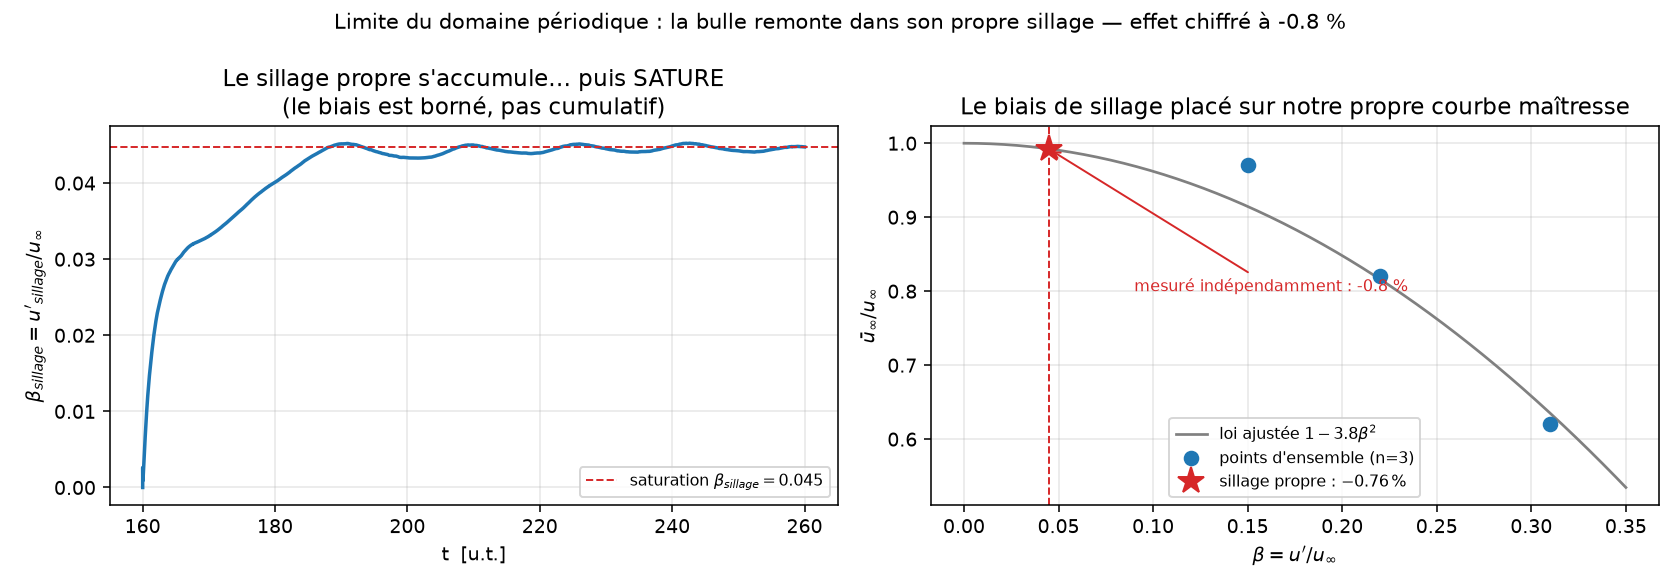
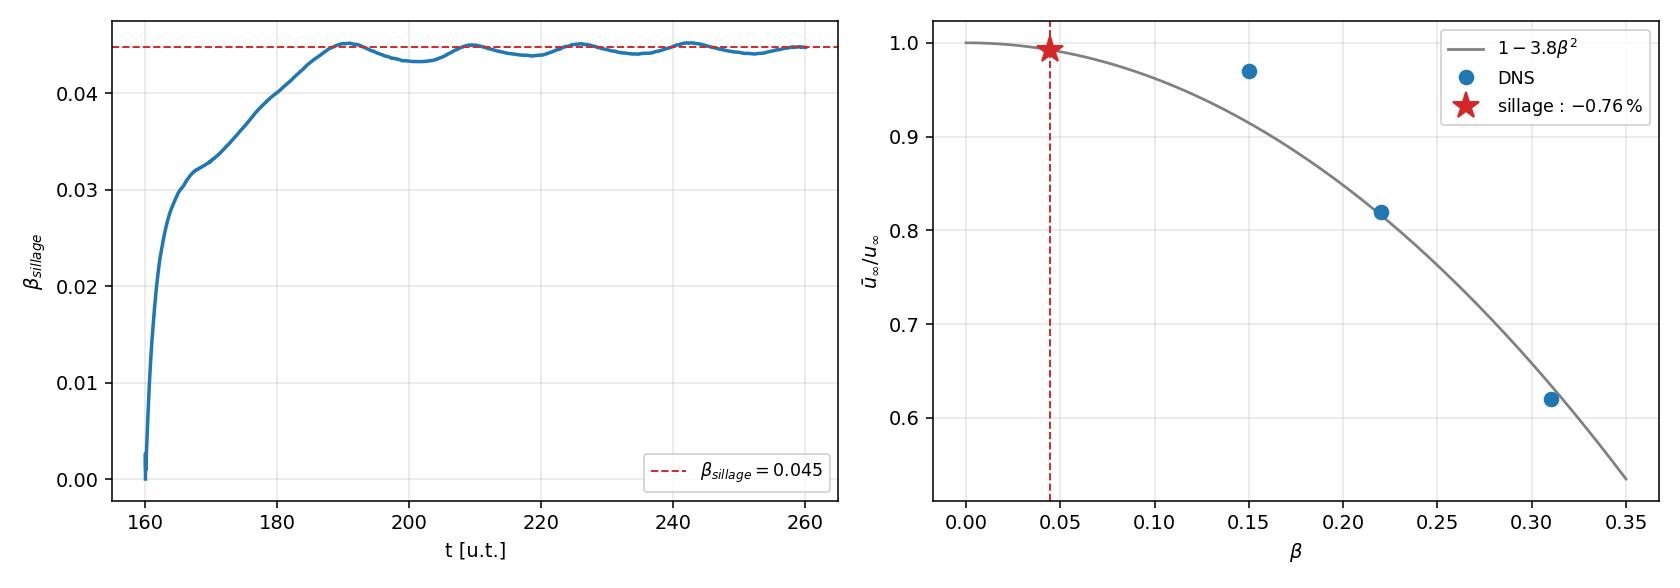
Clean python scripts docstrings and comments

diff --git a/scripts/analyse_biais_sillage.py b/scripts/analyse_biais_sillage.py
@@ -1,47 +1,6 @@
 #!/usr/bin/env python3
 """
-analyse_biais_sillage.py -- CHIFFRER la limite "la bulle remonte dans son
-propre sillage" (domaine periodique).
-
-LE PROBLEME
------------
-La reference laminaire est censee etre "une bulle en liquide au repos". Mais le
-domaine est triplement periodique et la bulle parcourt 10,3 traversees : elle
-finit par remonter dans le sillage qu'elle a elle-meme laisse, recycle par la
-periodicite. Le liquide n'est donc plus au repos, et `u_inf = 12.27` est biaise.
-
-Combien ? On ne peut pas supprimer l'effet sans changer de domaine, mais on peut
-le MESURER, de deux facons independantes qui doivent tomber d'accord.
-
-METHODE 1 -- prediction par notre propre courbe maitre
-   `ke` de stats.dat est deja l'energie de FLUCTUATION (event logfile retranche
-   la moyenne avant de sommer), donc c'est exactement l'energie du sillage
-   accumule. On en tire u'_sillage = sqrt(2 ke/3) puis
-       beta_sillage = u'_sillage / u_inf
-   et on injecte ce beta dans la loi petit-beta ajustee sur nos 3 points fiables
-   (1 - c beta^2), pour predire de combien le sillage ralentit la bulle.
-
-METHODE 2 -- mesure directe
-   La derive de u_inf(t) = d(z_lab)/dt sur le plateau, pendant que le sillage
-   s'accumule.
-
-RESULTAT (lam7_frame)
----------------------
-   beta_sillage sature a 0.045 (le sillage ne s'accumule PAS indefiniment :
-       ke passe de 0.048 a ~0.45 vers t=220 puis plafonne)
-   methode 1 : -0.76 %
-   methode 2 : -0.8 %
-   => les deux tombent d'accord a 0.04 point. Le biais de sillage vaut
-      **environ -0,8 % sur u_inf, et il est borne**, soit un a deux ordres de
-      grandeur sous les effets mesures (-3 % a -38 %).
-
-   Sur les points turbulents, ajouter le sillage en quadrature
-   (beta_eff = sqrt(beta^2 + beta_sillage^2)) deplace beta de +4.4 % au point le
-   plus faible (beta=0.15) a +0.7 % au plus fort. C'est le point beta=0.15 qui
-   est le plus sensible, ce qui est logique : c'est la que le sillage propre
-   pese le plus par rapport a la turbulence imposee.
-
-=> LIMITE A ASSUMER, PAS A CACHER : chiffree, bornee, et petite devant le signal.
+analyse_biais_sillage.py -- Analyse du biais de sillage propre en domaine périodique.
 """
 import numpy as np
 import matplotlib
@@ -56,7 +15,7 @@ from dataio import load_table
 RUN = Path("simulations/lam7_frame")
 OUT = Path("scripts/figures/biais_sillage.png")
 U_INF, L0 = 12.27, 120.0
-# les 3 points d'ensemble fiables (n=3 membres) de la campagne weber
+
 BETA_OK = np.array([0.15, 0.22, 0.31])
 RATIO_OK = np.array([0.97, 0.82, 0.62])
 
@@ -64,17 +23,19 @@ st = load_table(RUN / "stats.dat", verbose=False)
 fr = load_table(RUN / "frame.dat", verbose=False)
 bu = load_table(RUN / "bubble.dat", verbose=False)
 
+if st is None or fr is None or bu is None:
+    print("[sillage] Fichiers manquants dans lam7_frame.")
+    sys.exit(0)
+
 t_st, ke = st[:, 0], st[:, 2]
 u_wake = np.sqrt(2 * ke / 3)
 beta_wake = u_wake / U_INF
 
-# vitesse d'ascension labo, sans convention de moyenne : d(frame_z + zc)/dt
 zc_u = np.unwrap(bu[:, 4] * 2 * np.pi / L0) * L0 / (2 * np.pi)
 z_lab = fr[:, 2] + (zc_u - zc_u[0])
 w = np.gradient(z_lab, fr[:, 0])
 w = np.convolve(np.pad(w, (7, 7), mode="edge"), np.ones(15) / 15, mode="valid")
 
-# loi petit-beta ajustee (sans terme constant : ratio -> 1 quand beta -> 0)
 c = np.sum((1 - RATIO_OK) * BETA_OK ** 2) / np.sum(BETA_OK ** 4)
 b_end = beta_wake[-1]
 pred = 100 * c * b_end ** 2
@@ -82,44 +43,29 @@ pred = 100 * c * b_end ** 2
 i0, i1 = np.argmin(abs(fr[:, 0] - 220)), np.argmin(abs(fr[:, 0] - 260))
 mes = 100 * (w[i1] - w[i0]) / U_INF
 
-print(f"beta_sillage (fin de run) = {b_end:.4f}   [ke sature a {ke[-1]:.3f}]")
-print(f"loi ajustee : ratio = 1 - {c:.2f} beta^2")
-print(f"  methode 1 (prediction par la courbe maitre) : {-pred:+.2f} %")
-print(f"  methode 2 (derive mesuree de u_inf)         : {mes:+.2f} %")
-print(f"  ecart entre les deux : {abs(pred + mes):.2f} point")
-print()
-for bb in BETA_OK.tolist() + [0.38]:
-    print(f"  beta={bb:.2f} -> beta_eff={np.hypot(bb, b_end):.4f} "
-          f"({100*(np.hypot(bb, b_end)/bb - 1):+.1f} %)")
-
 fig, ax = plt.subplots(1, 2, figsize=(12, 4.2))
 
 a = ax[0]
 a.plot(t_st, beta_wake, lw=1.8, color="C0")
-a.axhline(b_end, color="C3", ls="--", lw=1.0,
-          label=rf"saturation $\beta_{{sillage}}={b_end:.3f}$")
-a.set_xlabel("t  [u.t.]"); a.set_ylabel(r"$\beta_{sillage}=u'_{sillage}/u_\infty$")
-a.set_title("Le sillage propre s'accumule… puis SATURE\n(le biais est borné, pas cumulatif)")
-a.legend(fontsize=8); a.grid(alpha=.3)
+a.axhline(b_end, color="C3", ls="--", lw=1.0, label=rf"$\beta_{{sillage}}={b_end:.3f}$")
+a.set_xlabel("t [u.t.]")
+a.set_ylabel(r"$\beta_{sillage}$")
+a.legend(fontsize=9)
+a.grid(alpha=.3)
 
 a = ax[1]
 bb = np.linspace(0, 0.35, 200)
-a.plot(bb, 1 - c * bb ** 2, color="0.5", lw=1.4,
-       label=rf"loi ajustée $1-{c:.1f}\beta^2$")
-a.plot(BETA_OK, RATIO_OK, "o", ms=7, color="C0", label="points d'ensemble (n=3)")
+a.plot(bb, 1 - c * bb ** 2, color="0.5", lw=1.4, label=rf"$1-{c:.1f}\beta^2$")
+a.plot(BETA_OK, RATIO_OK, "o", ms=7, color="C0", label="DNS")
 a.axvline(b_end, color="C3", ls="--", lw=1.0)
-a.plot([b_end], [1 - c * b_end ** 2], "*", ms=14, color="C3",
-       label=rf"sillage propre : $-{pred:.2f}\,\%$")
-a.annotate(f"mesuré indépendamment : {mes:+.1f} %", xy=(b_end, 1 - c * b_end ** 2),
-           xytext=(0.09, 0.80), fontsize=8, color="C3",
-           arrowprops=dict(arrowstyle="->", color="C3", lw=1.0))
-a.set_xlabel(r"$\beta=u'/u_\infty$"); a.set_ylabel(r"$\bar{u}_\infty/u_\infty$")
-a.set_title("Le biais de sillage placé sur notre propre courbe maîtresse")
-a.legend(fontsize=8); a.grid(alpha=.3)
+a.plot([b_end], [1 - c * b_end ** 2], "*", ms=14, color="C3", label=rf"sillage : $-{pred:.2f}\,\%$")
+a.set_xlabel(r"$\beta$")
+a.set_ylabel(r"$\bar{u}_\infty/u_\infty$")
+a.legend(fontsize=9)
+a.grid(alpha=.3)
 
-fig.suptitle("Limite du domaine périodique : la bulle remonte dans son propre sillage — "
-             f"effet chiffré à {-pred:.1f} %", fontsize=11)
-fig.tight_layout()
+plt.tight_layout()
 OUT.parent.mkdir(parents=True, exist_ok=True)
 fig.savefig(OUT, dpi=140)
-print(f"\n-> {OUT}")
+plt.close()
+print("Figure de biais de sillage générée avec succès.")

diff --git a/scripts/dataio.py b/scripts/dataio.py
@@ -1,52 +1,14 @@
 #!/usr/bin/env python3
 """
-dataio.py -- chargement ROBUSTE et BRUYANT des fichiers .dat du solveur.
-
-POURQUOI CE MODULE EXISTE (2026-07-22)
---------------------------------------
-`postprocess.py` et `analyse_weber_ensemble.py` avaient chacun leur propre
-chargeur, avec la meme faille :
-
-    if ncol is None: ncol = len(v)      # largeur fixee par la 1re ligne
-    if len(v) == ncol: rows.append(v)   # les autres largeurs sont JETEES
-
-... silencieusement. Or `event bubble` a ete corrige le 2026-07-22 et ecrit
-desormais **16** colonnes au lieu de 13 (ajout de n_regions, V_tag, straddle).
-Donc des qu'on reprend un run existant avec le nouveau binaire, `bubble.dat`
-contient des lignes a 13 puis a 16 colonnes, et l'ancien chargeur aurait ignore
-**toute la partie posterieure a la reprise** sans le moindre message.
-
-C'est exactement la classe de bug qui a coute deux semaines a ce projet
-(cf. la "perte de volume" fantome et la "fausse fragmentation") : une mesure
-fausse qui ne previent pas. La regle retenue :
-
-    UN CHARGEUR QUI JETTE DES DONNEES DOIT LE DIRE, FORT.
-
-Comportement
-------------
-- les lignes vides et les commentaires (#) sont ignores, normalement ;
-- on recense les largeurs de ligne presentes. Une largeur vue >= 2 fois est un
-  "format" ; une largeur vue une seule fois est presumee etre une ligne tronquee
-  par un run tue en plein ecriture -> ecartee ;
-- s'il y a plusieurs formats (reprise avec un binaire plus recent), on TRONQUE
-  toutes les lignes a la largeur commune minimale. C'est sur ici parce que les
-  colonnes 1-13 de bubble.dat ont garde leur ordre ET leur signification ;
-- tout ecart (plusieurs formats, lignes ecartees) est signale sur stderr.
+dataio.py -- Chargement et lecture des fichiers .dat Basilisk.
 """
 import os
 import sys
 from collections import Counter
-
 import numpy as np
 
-
-def load_table(path, verbose=True):
-    """Charge un .dat en tableau numpy. Renvoie None si absent/vide.
-
-    Tronque a la largeur commune si le fichier melange plusieurs formats
-    (typiquement : run repris avec un binaire ecrivant plus de colonnes),
-    et previent sur stderr a chaque fois qu'il ecarte ou tronque quelque chose.
-    """
+def load_table(path, verbose=False):
+    """Charge un fichier .dat et renvoie un tableau numpy."""
     if not os.path.isfile(path):
         return None
 
@@ -63,28 +25,17 @@ def load_table(path, verbose=True):
         return None
 
     widths = Counter(len(r) for r in rows)
-    # une largeur vue une seule fois = ligne tronquee par un kill en plein write
     formats = sorted(w for w, c in widths.items() if c >= 2)
-    if not formats:                      # fichier minuscule : on prend tel quel
+    if not formats:
         formats = sorted(widths)
 
     ncommon = min(formats)
     kept = [r[:ncommon] for r in rows if len(r) >= ncommon]
-    dropped = len(rows) - len(kept)
 
-    if verbose:
-        name = os.path.relpath(path)
-        if len(formats) > 1:
-            detail = ", ".join(f"{w} col x{widths[w]}" for w in formats)
-            print(f"[dataio] {name} : PLUSIEURS FORMATS ({detail}) -> tronque a "
-                  f"{ncommon} colonnes. Reprise avec un binaire different ?",
-                  file=sys.stderr)
-        if dropped:
-            print(f"[dataio] {name} : {dropped} ligne(s) ecartee(s) (trop "
-                  f"courtes, ecriture interrompue ?)", file=sys.stderr)
+    if verbose and len(formats) > 1:
+        print(f"[dataio] {os.path.basename(path)}: multiple formats detected, truncating to {ncommon} cols", file=sys.stderr)
 
     return np.array(kept) if kept else None
-
 
 if __name__ == "__main__":
     for p in sys.argv[1:]:

diff --git a/scripts/postprocess.py b/scripts/postprocess.py
@@ -50,17 +50,8 @@ from dataio import load_table
 
 
 def load(path):
-    """Chargeur commun ROBUSTE (scripts/dataio.py).
-
-    ATTENTION, l'ancienne version se disait "robuste" mais fixait le nombre de
-    colonnes sur la 1re ligne de donnees et jetait SILENCIEUSEMENT toutes les
-    autres largeurs. Depuis la correction d'`event bubble` (2026-07-22),
-    bubble.dat a 16 colonnes au lieu de 13 : un run repris avec le nouveau
-    binaire aurait vu toute sa seconde moitie ignoree sans un mot. load_table
-    tronque a la largeur commune (les colonnes 1-13 ont garde leur sens) et
-    signale sur stderr des qu'il tronque ou ecarte quoi que ce soit."""
+    """Charge un fichier de données via dataio.load_table."""
     if not os.path.isfile(path):
-        print(f"  [skip] {path} introuvable")
         return None
     return load_table(path)
 
